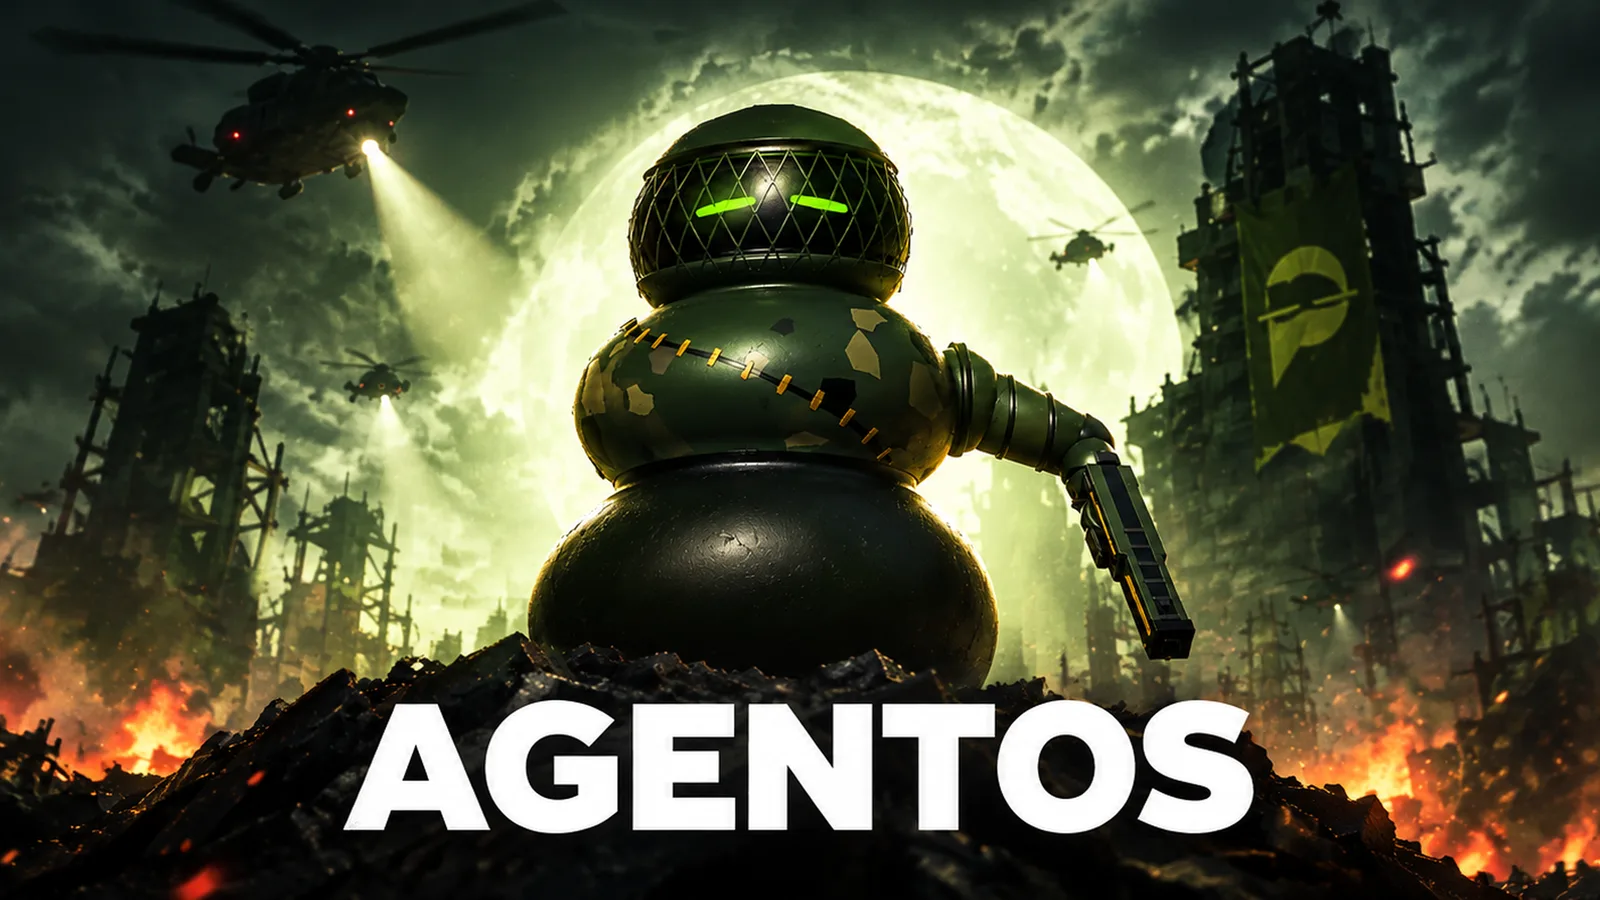
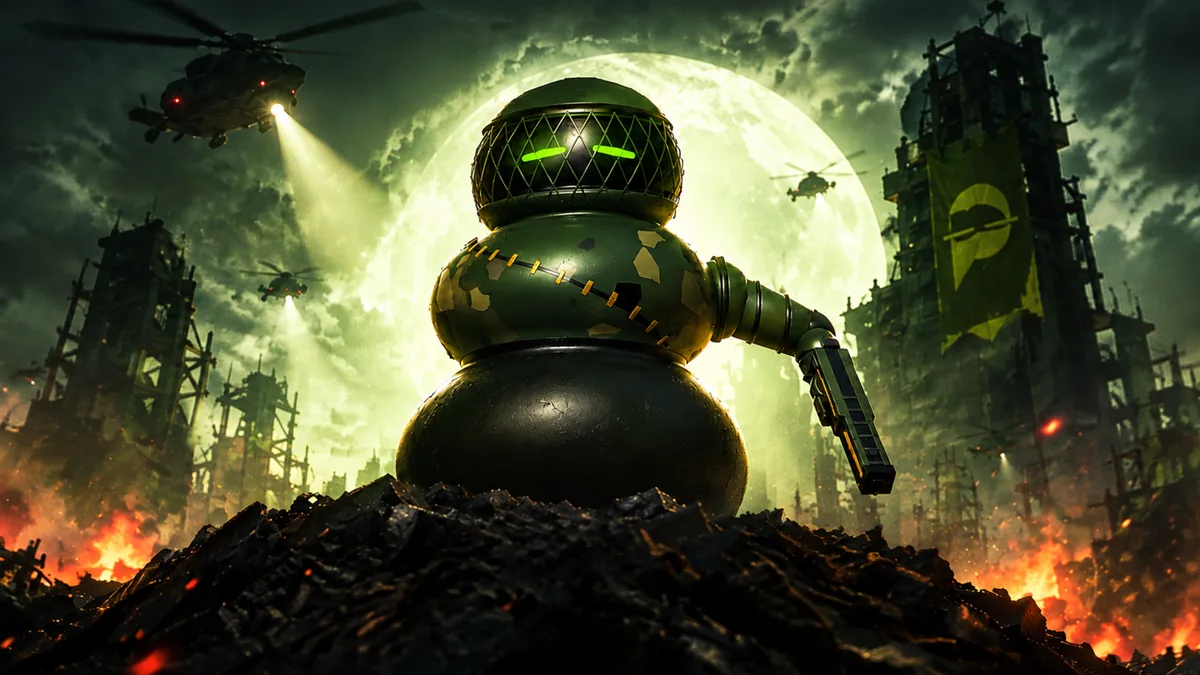
Games cards: one square image size, AGENTOS art without lettering, a short AGENTOS line
Both cards' art is the same square, cropped with object-fit: cover; the cards
have no fixed height, so the row stretches them to one height and the bottom
line sits on the bottom edge of each. The AGENTOS art is the splash with no
lettering (SplashZeroText1920x1080.png), 1200 x 675 WebP, 88 KB. Its blurb is
one line, like WRIGGZ's.

diff --git a/src/routes/+page.svelte b/src/routes/+page.svelte
@@ -25,10 +25,10 @@
       title: 'AGENTOS',
       genre: 'Third-person arena shooter',
       status: 'Coming soon',
-      blurb:
-        'AGENTOS is a fast third-person arena shooter where you play a small plastic robot agent armed with an oversized laser pistol whose bolts ricochet off the walls, backed by a dash, a rappel line, a shield, smoke and a remote spider-cam. Fight across dozens of themed arenas in front of cheering robot crowds, in 1V1 to 3V3 duels or in three objective modes — ORB RUSH, RAMBALL and BREACH. Between matches, collect and customise a growing roster of themed agents, shields and grapple heads.',
-      // No store page yet, so the card is not a link. The key art is the game's splash screen
-      // (Content/Data/UI/Splash.png in the game's repo), resized to 1600 x 900.
+      blurb: 'Ricochet lasers, dashes, rappels and shields — 1V1 to 3V3 duels and three modes: ORB RUSH, RAMBALL, BREACH.',
+      // No store page yet, so the card is not a link. The key art is the game's splash with no
+      // lettering on it (Content/Data/UI/SplashZeroText1920x1080.png in the game's repo), as WRIGGZ's
+      // has none - resized to 1200 x 675 WebP.
       art: '/agentos-key-art.webp',
       artFocus: '48% 40%',
       hue: 268
@@ -243,8 +243,10 @@
 
   /* ---------- games grid ---------- */
   /*
-   * 400x600 as specified. `max-width: 100%` and the aspect-ratio fallback keep it from overflowing a
-   * phone, where a fixed 400px would force the whole page to scroll sideways.
+   * 400 wide, as specified; `max-width: 100%` keeps it from overflowing a phone, where a fixed 400px
+   * would force the whole page to scroll sideways. No fixed height: every card's art is the SAME
+   * square (below), the row stretches the cards to one height, and "View game" sits on the bottom
+   * edge - so two cards line up whatever their art's own shape or their blurb's length.
    */
   .games {
     display: flex;
@@ -256,7 +258,6 @@
     display: flex;
     flex-direction: column;
     width: 400px;
-    height: 600px;
     max-width: 100%;
     background: var(--bg-card);
     border: 1px solid var(--line);
@@ -272,19 +273,18 @@
     transform: translateY(-3px);
   }
   .game-art {
-    flex: 1 1 auto;
+    flex: none;
+    width: 100%;
+    aspect-ratio: 1 / 1;
     background:
       radial-gradient(75% 65% at 32% 28%, hsl(var(--hue) 70% 42% / .55), transparent 62%),
       radial-gradient(70% 60% at 72% 72%, hsl(calc(var(--hue) + 40) 70% 38% / .40), transparent 60%),
       var(--bg-raised);
   }
-  /* Real key art. Takes the same space as the gradient it replaces; `object-fit: cover` crops the
-     landscape image into the portrait card around `artFocus` instead of squashing it. */
+  /* Real key art. Takes the same square as the gradient it replaces; `object-fit: cover` crops the
+     landscape image around `artFocus` instead of squashing it. */
   .game-img {
     display: block;
-    flex: 1 1 0;
-    min-height: 0;
-    width: 100%;
     object-fit: cover;
     background: #000;
   }
@@ -305,6 +305,7 @@
     color: var(--muted);
   }
   .game-body {
+    flex: 1 1 auto;
     display: flex;
     flex-direction: column;
     gap: .4rem;
@@ -315,13 +316,12 @@
   .game-title { font-size: 1.5rem; font-weight: 700; letter-spacing: -.01em; }
   .game-genre { font-size: .82rem; letter-spacing: .06em; text-transform: uppercase; color: var(--accent); }
   .game-blurb { color: var(--muted); font-size: .95rem; line-height: 1.5; }
-  .game-more { margin-top: .35rem; font-size: .88rem; color: var(--text); opacity: .75; }
+  .game-more { margin-top: auto; padding-top: .35rem; font-size: .88rem; color: var(--text); opacity: .75; }
   .game-card:hover .game-more { opacity: 1; }
 
   /* A game with no page to go to yet: not a link, so it does not lift or light up on hover. */
   .game-card.soon:hover { border-color: var(--line); transform: none; }
   .soon .game-more { color: var(--muted); }
-  .soon .game-art { flex: 1 1 0; min-height: 0; }
   /* The placeholder's wordmark, until there is key art: faint, so it reads as art and not as a title. */
   .game-art { position: relative; display: block; overflow: hidden; }
   .game-mark {
